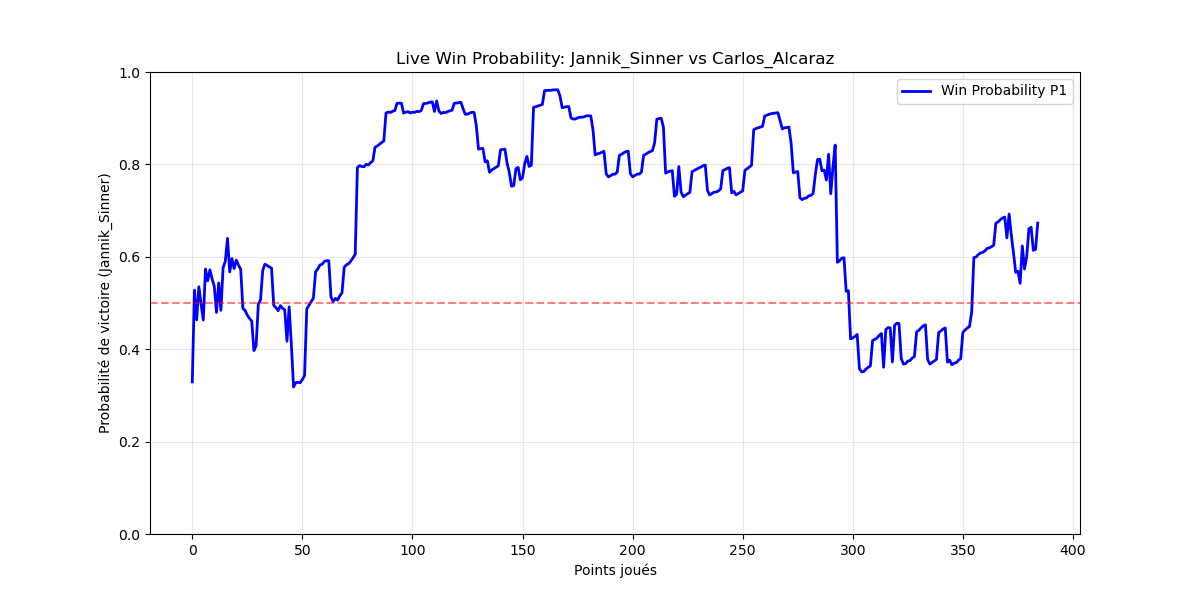
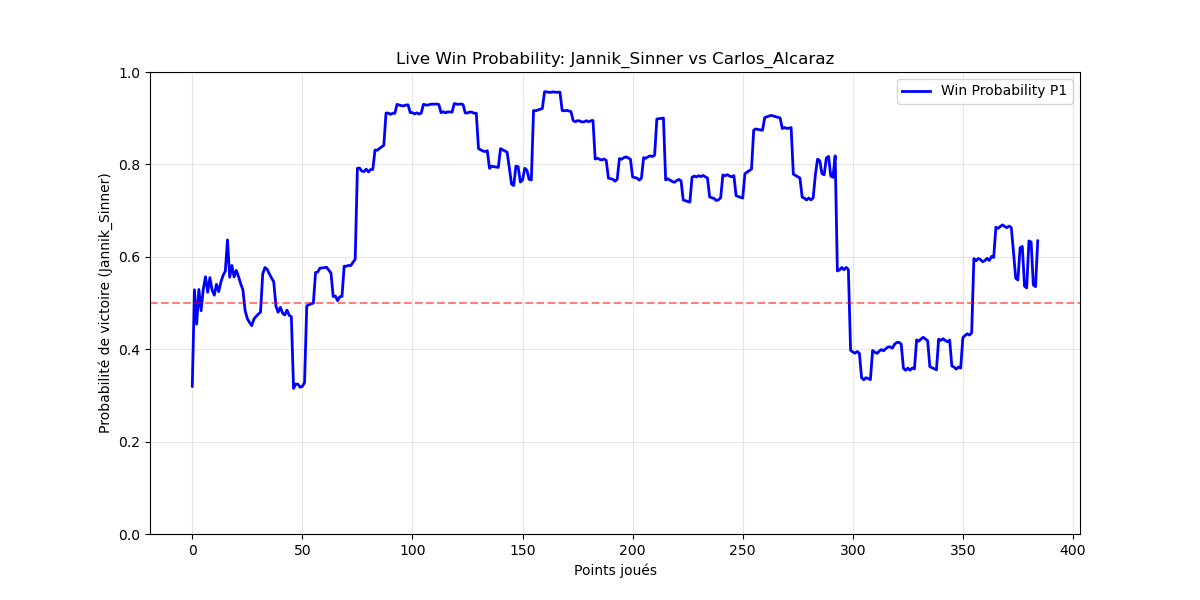
test modele robuste avec sklearn

diff --git a/src/models/regression_log/regression_sklearn.py b/src/models/regression_log/regression_sklearn.py
@@ -1,12 +1,11 @@
+# python -m src.models.regression_log.regression_sklearn
 import pandas as pd
 from sklearn.preprocessing import StandardScaler
 from sklearn.linear_model import LogisticRegression
 from utils.features import load_data, df_complete_features
-import statsmodels.api as sm
 import matplotlib.pyplot as plt
 
 
-# Chargement (Assure-toi que les chemins sont corrects)
 df = load_data("/Users/mathisverguet/live_win_probability_tennis/data/raw/processed/charting-m-points-2020s.csv")
 df = df_complete_features(df)
 
@@ -25,12 +24,12 @@ cols_to_drop = [
     'Pts'
 ]
 
-# Encodage rapide de la Surface (Exemple)
-# La logistique a besoin de chiffres. On transforme 'Clay', 'Hard', 'Grass' en colonnes 0/1
+# one hot Encodage rapide de la Surface, du service, et du tournoi
 X_train = pd.get_dummies(df_train.drop(columns=cols_to_drop + ['Winner_Binary']), columns=['Surface', 'Tournament_Level', 'Svr'])
 X_test = pd.get_dummies(df_test.drop(columns=cols_to_drop + ['Winner_Binary']), columns=['Surface', 'Tournament_Level', 'Svr'])
 
-# Après analyse statistique, on ne garde que les features significatives
+
+# Après analyse statistique, on ne garde que les features significatives (cf regression_logistique_stat.py)
 significant_features = ['Elo_Diff', 'Pt', 'set_diff', 'game_diff', 'p1_serve_win_rate', 'p2_serve_win_rate',
                         'TbSet', 'Gm#', 'p1_recent_form', 'p2_recent_form', 'Svr_1', 'Simple_Score_Player1',
                         'Simple_Score_Player2', 'p1_total_matches', 'p2_total_matches',
@@ -38,6 +37,9 @@ significant_features = ['Elo_Diff', 'Pt', 'set_diff', 'game_diff', 'p1_serve_win
                         'Tournament_Level_M1000', 'Tournament_Level_ATP500', 'Tournament_Level_ATP250',
                         'Tournament_Level_GS']
 
+
+X_train = X_train[significant_features]
+X_test = X_test[significant_features]
 
 
 # Alignement des colonnes
@@ -48,7 +50,7 @@ y_test = df_test['Winner_Binary']
 
 # Normalisation
 features_a_normaliser = [
-    'Elo_P1', 'Elo_P2', 'Elo_Diff',
+    'Elo_Diff',
     'p1_serve_win_rate', 'p2_serve_win_rate',
     'p1_recent_form', 'p2_recent_form',
     'p1_total_matches', 'p2_total_matches',
@@ -57,51 +59,23 @@ features_a_normaliser = [
 
 scaler = StandardScaler()
 
-
 X_train.loc[:, features_a_normaliser] = scaler.fit_transform(X_train[features_a_normaliser])
 X_test.loc[:, features_a_normaliser] = scaler.transform(X_test[features_a_normaliser])
 
-X_train_with_const = sm.add_constant(X_train)
 
-# Conversion forcée en numérique (les erreurs deviennent des NaN)
-X_train_clean = X_train_with_const.apply(pd.to_numeric, errors='coerce')
-y_train_clean = pd.to_numeric(y_train, errors='coerce')
-X_train_clean = X_train_clean[significant_features]
+print(X_train.shape, y_train.shape)
 
-# 2. On remplit les NaN créés par la conversion ou déjà présents
-X_train_clean = X_train_clean.fillna(0)
-y_train_clean = y_train_clean.fillna(0)
-
-# 3. On force le type en float pour garantir que NumPy ne voit plus d'objets
-X_train_clean = X_train_clean.astype(float)
-y_train_clean = y_train_clean.astype(float)
-print(X_train_clean.shape, y_train_clean.shape)
-
-# 4. On relance le modèle
-model = sm.Logit(y_train_clean, X_train_clean)
-result = model.fit()
-print(result.summary())
-
-
-
-
-
-
-
-
-
-
-
-
-
+# 4. On relance le modèle de sklearn qui est plus performant
+model = LogisticRegression(max_iter=1000)
+model.fit(X_train, y_train)
+model.score(X_train, y_train)
 
 print(f"Score Train: {model.score(X_train, y_train):.3f}")
 print(f"Score Test: {model.score(X_test, y_test):.3f}")
 
-
+############################### Affichage de la live win probability ####################################
 
 # Choisir un match spécifique dans le jeu de test
-match_ids_test = df_test['match_id'].unique()
 target_match = "20250608-M-Roland_Garros-F-Jannik_Sinner-Carlos_Alcaraz"
 
 # Extraire les points de ce match et leurs caractéristiques

diff --git a/src/models/regression_log/regression_logistique_stat.py b/src/models/regression_log/regression_logistique_stat.py
@@ -1,0 +1,74 @@
+import pandas as pd
+from sklearn.preprocessing import StandardScaler
+from sklearn.linear_model import LogisticRegression
+from utils.features import load_data, df_complete_features
+import statsmodels.api as sm
+import matplotlib.pyplot as plt
+
+
+df = load_data("/Users/mathisverguet/live_win_probability_tennis/data/raw/processed/charting-m-points-2020s.csv")
+df = df_complete_features(df)
+
+# enlever les colonnes 2nd, 1st et Notes
+df = df.drop(columns=['2nd', '1st', 'Notes'])
+df = df.dropna().reset_index(drop=True)
+
+# Split temporel propre non aléatoire (important pour les séries temporelles)
+df_train = df[df['year'] <= 2023].copy()
+df_test = df[df['year'] > 2024].copy()
+
+# Liste des colonnes à supprimer
+cols_to_drop = [
+    'match_id', 'Player1_ID', 'Player2_ID', 'Player1_Name', 'Player2_Name',
+    'tournament_name', 'Winner', 'PtWinner', 'year', 'Round_Code',
+    'Pts'
+]
+
+# one hot Encodage rapide de la Surface, du service, et du tournoi
+X_train = pd.get_dummies(df_train.drop(columns=cols_to_drop + ['Winner_Binary']), columns=['Surface', 'Tournament_Level', 'Svr'])
+X_test = pd.get_dummies(df_test.drop(columns=cols_to_drop + ['Winner_Binary']), columns=['Surface', 'Tournament_Level', 'Svr'])
+
+
+# Après analyse statistique, on ne garde que les features significatives
+# on élève bien une catégorie par variable catégorielle
+
+significant_features = ['Elo_Diff', 'Pt', 'set_diff', 'game_diff', 'p1_serve_win_rate', 'p2_serve_win_rate',
+                        'TbSet', 'Gm#', 'p1_recent_form', 'p2_recent_form', 'Svr_1', 'Simple_Score_Player1',
+                        'Simple_Score_Player2', 'p1_total_matches', 'p2_total_matches',
+                        'Surface_Clay', 'Surface_Grass',
+                        'Tournament_Level_M1000', 'Tournament_Level_ATP500', 'Tournament_Level_ATP250',
+                        'Tournament_Level_GS']
+
+
+X_train = X_train[significant_features]
+X_test = X_test[significant_features]
+
+
+# Alignement des colonnes
+X_train, X_test = X_train.align(X_test, join='left', axis=1, fill_value=0)
+
+y_train = df_train['Winner_Binary']
+y_test = df_test['Winner_Binary']
+
+# Normalisation
+features_a_normaliser = [
+    'Elo_Diff',
+    'p1_serve_win_rate', 'p2_serve_win_rate',
+    'p1_recent_form', 'p2_recent_form',
+    'p1_total_matches', 'p2_total_matches',
+    'game_diff', 'set_diff', 'Pt', 'Gm#'
+]
+
+scaler = StandardScaler()
+
+X_train.loc[:, features_a_normaliser] = scaler.fit_transform(X_train[features_a_normaliser])
+X_test.loc[:, features_a_normaliser] = scaler.transform(X_test[features_a_normaliser])
+
+
+# modèle
+X_train = X_train.astype(float)
+y_train = y_train.astype(float)
+print(X_train.shape, y_train.shape)
+model = sm.Logit(y_train, X_train)
+result = model.fit()
+print(result.summary())
